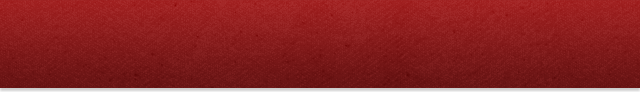
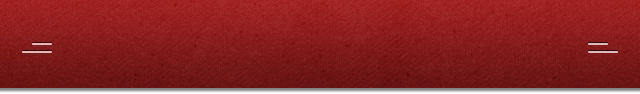
Changes the text in the top bars to be programmatic, but also affects the font and layout somewhat =(

diff --git a/LocationTabView.m b/LocationTabView.m
@@ -23,6 +23,16 @@
         int labelWidth = 300;
         int labelHeight = 30;
         
+        toolbarText = [[UILabel alloc] initWithFrame:CGRectMake(
+                                    (frame.size.width - labelWidth) / 2,
+                                    (locationBarOpacityHeight - labelHeight) / 2, 
+                                    labelWidth, 
+                                    labelHeight)];
+        [toolbarText setFont:[UIFont fontWithName:@"Optima-ExtraBlack" size:22]];
+        [toolbarText setTextColor:[UIColor whiteColor]];
+        [toolbarText setBackgroundColor:[UIColor clearColor]];
+        [toolbarText setTextAlignment:UITextAlignmentCenter];
+        
         locationMapView = [[LocationMapView alloc] initWithLocationState:locationState AndFrame:CGRectMake(
                                     frame.origin.x, 
                                     frame.origin.y + locationBarOpacityHeight, 
@@ -45,13 +55,12 @@
         
         
         [whiteBarLabel setBackgroundColor:[UIColor clearColor]];
-        [whiteBarLabel setText:@"Tap a location to order from"];
         [whiteBarLabel setTextAlignment:UITextAlignmentCenter];
         [whiteBarLabel setAdjustsFontSizeToFitWidth:YES];
         [whiteBarLabel setFont:[UIFont fontWithName:@"HelveticaNeue-Medium" size:16.0f]];
         [whiteBarLabel setTextColor:[UIColor colorWithRed:0.5f green:0.03f blue:0.03f alpha:1.0f]];
         
-        locationToolBarImage = [[UIImageView alloc] initWithImage:[UIImage imageNamed:@"LocationBarImageShadow.png"]];
+        locationToolBarImage = [[UIImageView alloc] initWithImage:[UIImage imageNamed:@"BlankTopbarWithShadow.png"]];
         
         [locationToolBarImage setFrame:CGRectMake(
                                     frame.origin.x, 
@@ -59,10 +68,15 @@
                                     frame.size.width, 
                                     locationBarHeight)];
         
+        
+        [whiteBarLabel setText:@"Tap a location to order from"];
+        [toolbarText setText:@"Locations"];
+        
         [self addSubview:locationMapView];
         [self addSubview:whiteBar];
         [self addSubview:whiteBarLabel];
         [self addSubview:locationToolBarImage];
+        [self addSubview:toolbarText];
         
     }
     return self;

diff --git a/OrderTabViewController.m b/OrderTabViewController.m
@@ -40,7 +40,20 @@
 
 -(void)viewWillAppear:(BOOL)animated
 {
-    [[[self navigationController] navigationBar] setBackgroundImage:[UIImage imageNamed:@"AddItemsBar.png"] forBarMetrics:UIBarMetricsDefault];
+    [[[self navigationController] navigationBar] setBackgroundImage:[UIImage imageNamed:@"BlankTopbarWithShadow.png"] forBarMetrics:UIBarMetricsDefault];
+    UILabel *toolbarText = [[UILabel alloc] initWithFrame:CGRectMake(
+                                                            ([[[self navigationController] navigationBar] frame ].size.width - 300) / 2,
+                                                            (44 - 30) / 2, 
+                                                            300, 
+                                                            30)];
+    [toolbarText setFont:[UIFont fontWithName:@"Optima-ExtraBlack" size:22]];
+    [toolbarText setTextColor:[UIColor whiteColor]];
+    [toolbarText setBackgroundColor:[UIColor clearColor]];
+    [toolbarText setTextAlignment:UITextAlignmentCenter];
+    
+    [toolbarText setText:@"Your Order"];
+    
+    [[self navigationItem] setTitleView:toolbarText];
 }
 
 -(CGFloat)tableView:(UITableView *)tableView heightForFooterInSection:(NSInteger)section
@@ -194,7 +207,7 @@
 
 -(void) editButtonPressed
 {
-    //stuff here to make the order editable
+    [[orderView orderTable] setEditing:YES animated:YES];
 }
 
 @end

diff --git a/ShinyItemViewController.m b/ShinyItemViewController.m
@@ -168,7 +168,21 @@ NSString* ITEM_DONE_BUTTON_HIT = @"CroutonLabs/ItemDoneButtonHit";
 
 -(void)viewWillAppear:(BOOL)animated
 {
-    [[[self navigationController] navigationBar] setBackgroundImage:[UIImage imageNamed:@"CustomizeTopBar.png"] forBarMetrics:UIBarMetricsDefault];
+    [[[self navigationController] navigationBar] setBackgroundImage:[UIImage imageNamed:@"BlankTopbarWithShadow.png"] forBarMetrics:UIBarMetricsDefault];
+    UILabel *toolbarText = [[UILabel alloc] initWithFrame:CGRectMake(
+                                                                     ([[[self navigationController] navigationBar] frame ].size.width - 300) / 2,
+                                                                     (44 - 30) / 2, 
+                                                                     300, 
+                                                                     30)];
+    [toolbarText setFont:[UIFont fontWithName:@"Optima-ExtraBlack" size:22]];
+    [toolbarText setTextColor:[UIColor whiteColor]];
+    [toolbarText setBackgroundColor:[UIColor clearColor]];
+    [toolbarText setTextAlignment:UITextAlignmentCenter];
+    
+    [toolbarText setText:[theItem name]];
+    [toolbarText setAdjustsFontSizeToFitWidth:YES];
+    
+    [[self navigationItem] setTitleView:toolbarText];
 }
 
 -(void)dealloc

diff --git a/ShinyOrderTabRenderer.m b/ShinyOrderTabRenderer.m
@@ -11,6 +11,8 @@
 #import "OrderSectionHeaderView.h"
 #import "MenuSectionHeaderView.h"
 #import "GeneralPurposeViewCellData.h"
+#import "ShinyOrderItemCell.h"
+#import "ShinyOrderComboCell.h"
 #import "ItemGroup.h"
 #import "OrderManager.h"
 #import "Order.h"
@@ -121,6 +123,15 @@
     
     [listData replaceObjectAtIndex:0 withObject:orderSectionContents];
     
+}
+
+-(BOOL)tableView:(UITableView *)tableView canEditRowAtIndexPath:(NSIndexPath *)indexPath
+{
+    id theCellData = [self objectForCellAtIndex:indexPath];
+    if ([ShinyOrderItemCell canDisplayData:theCellData] || [ShinyOrderComboCell canDisplayData:theCellData]) {
+        return YES;
+    }
+    return NO;
 }
 
 -(void) editButtonPressed

diff --git a/LocationTabView.h b/LocationTabView.h
@@ -16,6 +16,7 @@
     UIImageView *locationToolBarImage;
     UIView *whiteBar;
     UILabel *whiteBarLabel;
+    UILabel *toolbarText;
 }
 
 - (id)initWithLocationState:(LocationState *) locationState AndFrame:(CGRect)frame;
